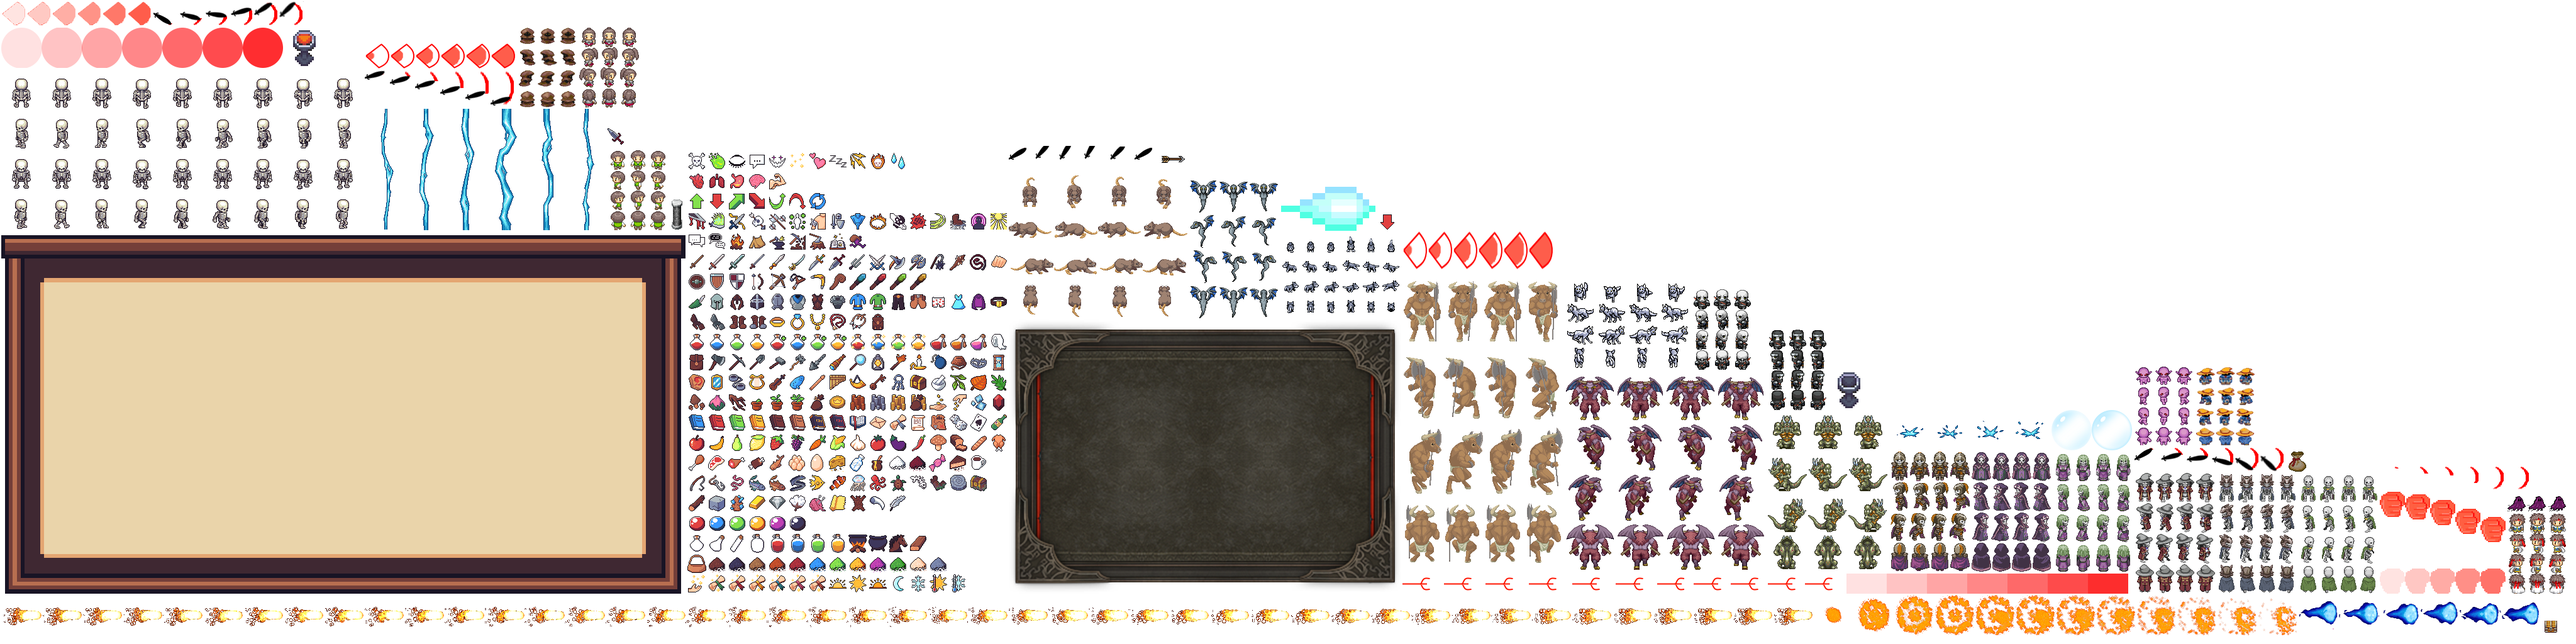
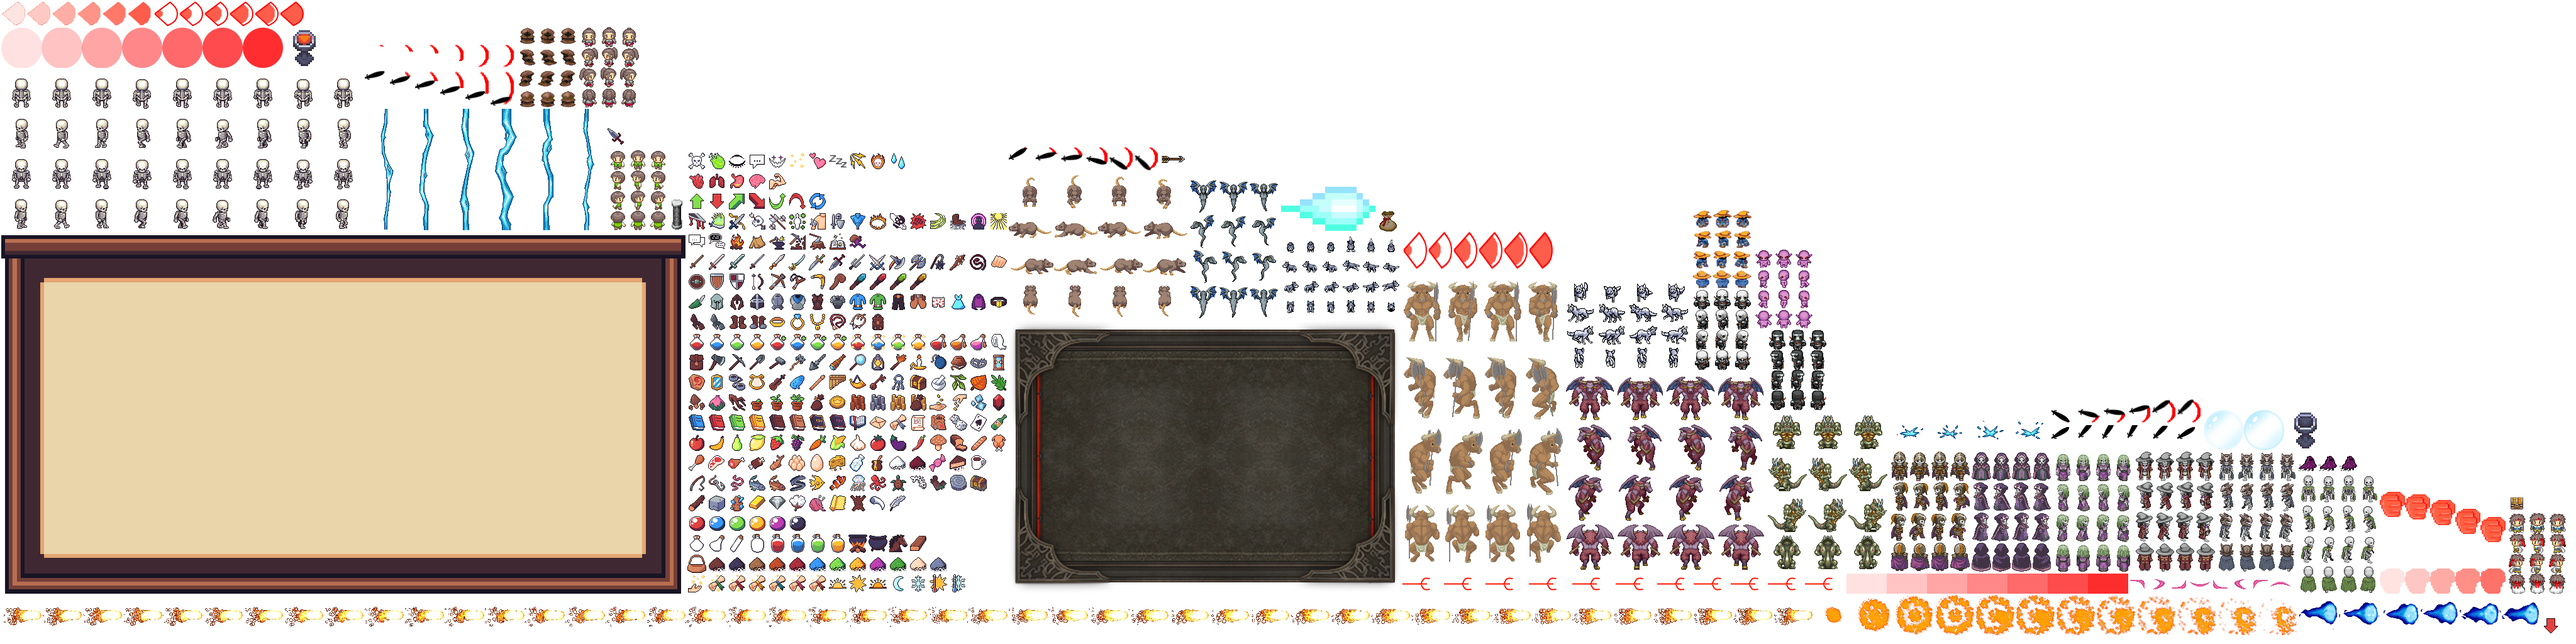
boomerang attack

diff --git a/core/src/com/mygdx/game/model/ability/Boomerang.java b/core/src/com/mygdx/game/model/ability/Boomerang.java
@@ -1,0 +1,139 @@
+package com.mygdx.game.model.ability;
+
+
+import com.mygdx.game.game.AbilityUpdateable;
+import com.mygdx.game.game.CreaturePosRetrievable;
+import com.mygdx.game.game.MyGdxGame;
+import com.mygdx.game.model.creature.Creature;
+import com.mygdx.game.model.util.Vector2;
+import lombok.Data;
+import lombok.EqualsAndHashCode;
+import lombok.NoArgsConstructor;
+
+@NoArgsConstructor(staticName = "of")
+@Data
+@EqualsAndHashCode(callSuper = true)
+public class Boomerang extends Projectile {
+
+    AbilityParams params;
+
+    @Override
+    public Boolean isRanged() {
+        return true;
+    }
+
+    @Override
+    void onAbilityStarted(AbilityUpdateable game) {
+
+    }
+
+    @Override
+    void onDelayedAction(MyGdxGame game) {
+
+    }
+
+    @Override
+    void onAbilityCompleted(MyGdxGame game) {
+
+    }
+
+    @Override
+    void onUpdatePosition(CreaturePosRetrievable game) {
+
+    }
+
+    @Override
+    public void onCreatureHit() {
+        //        deactivate();
+        params().comingBack(true);
+        params().speed(20f);
+    }
+
+    @Override
+    public void onThisCreatureHit() {
+        if (params().comingBack()) {
+            deactivate();
+        }
+    }
+
+    @Override
+    void onActiveUpdate(AbilityUpdateable game) {
+        if (params().speed() != null) {
+            params().velocity(params().dirVector().normalized().multiplyBy(params().speed()));
+        }
+        params().rotationAngle(params().dirVector().angleDeg());
+
+        Creature creature = game.getCreature(params().creatureId());
+
+        if (creature != null) {
+            if (!params().comingBack() && params().stateTimer().time() > 1f) {
+                params().comingBack(true);
+                params().speed(20f);
+            }
+
+            // TODO: duplicate code
+
+            if (params().comingBack()) {
+                Vector2 vectorTowards = params().pos().vectorTowards(creature.params().pos());
+                float targetAngleDeg = vectorTowards.angleDeg();
+                float currentAngleDeg = params().dirVector().angleDeg();
+
+                float alpha = targetAngleDeg - currentAngleDeg;
+                float beta = targetAngleDeg - currentAngleDeg + 360;
+                float gamma = targetAngleDeg - currentAngleDeg - 360;
+
+                float result;
+                if (Math.abs(alpha) < Math.abs(beta)) {
+                    if (Math.abs(alpha) < Math.abs(gamma)) {
+                        result = alpha;
+                    }
+                    else {
+                        result = gamma;
+                    }
+                }
+                else {
+                    if (Math.abs(beta) < Math.abs(gamma)) {
+                        result = beta;
+                    }
+                    else {
+                        result = gamma;
+                    }
+                }
+
+                float increment = 8f;
+
+                if (result > increment || result < -increment) {
+                    params().dirVector(params().dirVector().rotateDeg(increment));
+                }
+                else {
+                    params().dirVector(params().dirVector().setAngleDeg(targetAngleDeg));
+                }
+            }
+
+        }
+
+    }
+
+    @Override
+    public void onTerrainHit(Vector2 tileCenter, MyGdxGame game) {
+        params().comingBack(true);
+        params().speed(20f);
+    }
+
+    public static Boomerang of(AbilityParams abilityParams, @SuppressWarnings("unused") MyGdxGame game) {
+        Boomerang ability = Boomerang.of();
+        ability.params =
+                abilityParams.width(2f)
+                             .height(2f)
+                             .channelTime(0f)
+                             .activeTime(30f)
+                             .textureName("boomerang")
+                             .baseDamage(30f)
+                             .isChannelAnimationLooping(true)
+                             .isActiveAnimationLooping(true)
+                             .rotationShift(0f)
+                             .speed(15f);
+
+        return ability;
+    }
+}

diff --git a/core/src/com/mygdx/game/physics/util/PhysicsHelper.java b/core/src/com/mygdx/game/physics/util/PhysicsHelper.java
@@ -24,9 +24,15 @@ public class PhysicsHelper {
 
                 Ability ability = game.gameState().abilities().get(event.abilityId());
 
-                if (game.creaturesToUpdate().contains(event.attackedCreatureId()) && game.abilitiesToUpdate()
-                                                                                         .contains(event.abilityId())) {
-                    handleCreatureAttacked(event, attackedCreature, attackedIsPlayer, attackingIsPlayer, ability);
+                if (game.creaturesToUpdate().contains(event.attackedCreatureId()) && // TODO: refactor
+                    game.abilitiesToUpdate().contains(event.abilityId())) {
+                    if (event.attackingCreatureId().equals(event.attackedCreatureId())) {
+                        ability.onThisCreatureHit();
+                    }
+                    else {
+                        handleCreatureAttacked(event, attackedCreature, attackedIsPlayer, attackingIsPlayer, ability);
+                    }
+
                 }
             }
             if (physicsEvent instanceof AbilityHitsTerrainEvent) {
@@ -35,7 +41,6 @@ public class PhysicsHelper {
                 Ability ability = game.gameState().abilities().get(event.abilityId());
 
                 if (ability != null && ability.params().state() == AbilityState.ACTIVE) {
-                    System.out.println("on terrain hit");
                     ability.onTerrainHit(event.tileCenter(), game);
                 }
 

diff --git a/core/src/com/mygdx/game/game/MyGdxGameClient.java b/core/src/com/mygdx/game/game/MyGdxGameClient.java
@@ -233,7 +233,21 @@ public class MyGdxGameClient extends MyGdxGame {
                 Vector2 dirVector = mousePos();
 
                 endPoint().sendTCP(TryPerformSkillCommand.of(thisPlayerId,
-                                                             SkillType.RICOCHET_SHOT,
+                                                             SkillType.RICOCHET_BALLISTA,
+                                                             player.params().pos(),
+                                                             dirVector));
+
+
+            }
+            if (Gdx.input.isKeyJustPressed(Input.Keys.I)) {
+
+                Creature player = gameState().creatures().get(thisPlayerId);
+
+
+                Vector2 dirVector = mousePos();
+
+                endPoint().sendTCP(TryPerformSkillCommand.of(thisPlayerId,
+                                                             SkillType.BOOMERANG,
                                                              player.params().pos(),
                                                              dirVector));
 

diff --git a/core/src/com/mygdx/game/model/skill/Skill.java b/core/src/com/mygdx/game/model/skill/Skill.java
@@ -109,14 +109,24 @@ public class Skill {
                             20f);
         }
 
-        if (skillType == SkillType.RICOCHET_SHOT) {
+        if (skillType == SkillType.RICOCHET_BALLISTA) {
             return Skill.of(skillType,
                             creatureId,
-                            singleScheduledAbility(AbilityType.RICOCHET_SHOT),
+                            singleScheduledAbility(AbilityType.RICOCHET_BALLISTA),
                             SimpleTimer.getExpiredTimer(),
                             1.3f,
                             15f,
                             20f);
+        }
+
+        if (skillType == SkillType.BOOMERANG) {
+            return Skill.of(skillType,
+                            creatureId,
+                            singleScheduledAbility(AbilityType.BOOMERANG),
+                            SimpleTimer.getExpiredTimer(),
+                            1.3f,
+                            35f,
+                            0f);
         }
         throw new RuntimeException("skill not handled");
     }

diff --git a/core/src/com/mygdx/game/physics/GamePhysics.java b/core/src/com/mygdx/game/physics/GamePhysics.java
@@ -52,12 +52,12 @@ public class GamePhysics {
         if (objA instanceof CreatureBody && objB instanceof AbilityBody) {
             CreatureBody creatureBody = (CreatureBody) objA;
             AbilityBody abilityBody = (AbilityBody) objB;
-            if (!abilityBody.creatureId().equals(creatureBody.creatureId())) {
-                physicsEventQueue.add(AbilityHitsCreatureEvent.of(abilityBody.creatureId(),
-                                                                  creatureBody.creatureId(),
-                                                                  abilityBody.abilityId()));
 
-            }
+            physicsEventQueue.add(AbilityHitsCreatureEvent.of(abilityBody.creatureId(),
+                                                              creatureBody.creatureId(),
+                                                              abilityBody.abilityId()));
+
+
         }
         if (objA instanceof TerrainTileBody && objB instanceof AbilityBody) {
             TerrainTileBody terrainTileBody = (TerrainTileBody) objA;

diff --git a/core/src/com/mygdx/game/model/ability/RicochetBullet.java b/core/src/com/mygdx/game/model/ability/RicochetBullet.java
@@ -65,6 +65,11 @@ public class RicochetBullet extends Projectile {
     }
 
     @Override
+    public void onThisCreatureHit() {
+
+    }
+
+    @Override
     public void onTerrainHit(Vector2 tileCenter, MyGdxGame game) {
 
         if (params().wallBounceCount() > 4) {
@@ -72,7 +77,6 @@ public class RicochetBullet extends Projectile {
             return;
         }
 
-        System.out.println("dot = " + params().dirVector().dot(params().pos().vectorTowards(tileCenter)));
         if (
                 (params().lastTileHitPos() != null && params().lastTileHitPos().equals(tileCenter)) ||
                 params().dirVector().dot(params().pos().vectorTowards(tileCenter)) <=
@@ -87,7 +91,6 @@ public class RicochetBullet extends Projectile {
 
         params().wallBounceCount(params().wallBounceCount() + 1);
 
-        System.out.println("here");
         params().lastTileHitPos(tileCenter);
 
         Vector2 collisionVector = params().pos().vectorTowards(tileCenter);

diff --git a/core/src/com/mygdx/game/model/ability/AbilityFactory.java b/core/src/com/mygdx/game/model/ability/AbilityFactory.java
@@ -33,10 +33,12 @@ public class AbilityFactory {
                 return PlayfulGhost::of;
             case SUMMON_GHOSTS:
                 return SummonGhosts::of;
-            case RICOCHET_SHOT:
+            case RICOCHET_BALLISTA:
                 return RicochetBallista::of;
             case RICOCHET_BULLET:
                 return RicochetBullet::of;
+            case BOOMERANG:
+                return Boomerang::of;
             default:
                 throw new RuntimeException("ability type not found: " + abilityType);
         }

diff --git a/core/src/com/mygdx/game/game/MyGdxGame.java b/core/src/com/mygdx/game/game/MyGdxGame.java
@@ -391,6 +391,7 @@ public abstract class MyGdxGame extends Game implements AbilityUpdateable, Creat
         endPoint().getKryo().register(PlayfulGhost.class);
         endPoint().getKryo().register(RicochetBullet.class);
         endPoint().getKryo().register(RicochetBallista.class);
+        endPoint().getKryo().register(Boomerang.class);
 
 
         endPoint().getKryo().register(Enemy.class);

diff --git a/core/src/com/mygdx/game/model/ability/IceSpear.java b/core/src/com/mygdx/game/model/ability/IceSpear.java
@@ -46,6 +46,11 @@ public class IceSpear extends Projectile {
     }
 
     @Override
+    public void onThisCreatureHit() {
+
+    }
+
+    @Override
     public void onTerrainHit(Vector2 tileCenter, MyGdxGame game) {
         if (params().stateTimer().time() > 0.1f) {
             deactivate();

diff --git a/core/src/com/mygdx/game/model/ability/MagicOrb.java b/core/src/com/mygdx/game/model/ability/MagicOrb.java
@@ -52,6 +52,11 @@ public class MagicOrb extends Projectile {
     }
 
     @Override
+    public void onThisCreatureHit() {
+
+    }
+
+    @Override
     public void onTerrainHit(Vector2 tileCenter, MyGdxGame game) {
         if (params().stateTimer().time() > 0.1f) {
             deactivate();

diff --git a/core/src/com/mygdx/game/renderer/config/AbilityAnimationConfig.java b/core/src/com/mygdx/game/renderer/config/AbilityAnimationConfig.java
@@ -46,5 +46,7 @@ public class AbilityAnimationConfig {
 
         configs.put("ghost", AbilityAnimationConfig.of(32, 32, "ghost", "ghost", 0, 3, 0f, 0.3f, 1.7f));
 
+        configs.put("boomerang", AbilityAnimationConfig.of(32, 32, "boomerang", "boomerang", 0, 8, 0f, 0.05f, 1.7f));
+
     }
 }

diff --git a/core/src/com/mygdx/game/model/ability/Ability.java b/core/src/com/mygdx/game/model/ability/Ability.java
@@ -115,6 +115,8 @@ public abstract class Ability {
 
     public abstract void onCreatureHit();
 
+    public abstract void onThisCreatureHit();
+
     public abstract void onTerrainHit(Vector2 tileCenter, MyGdxGame game);
 
     public boolean bodyShouldExist() {
